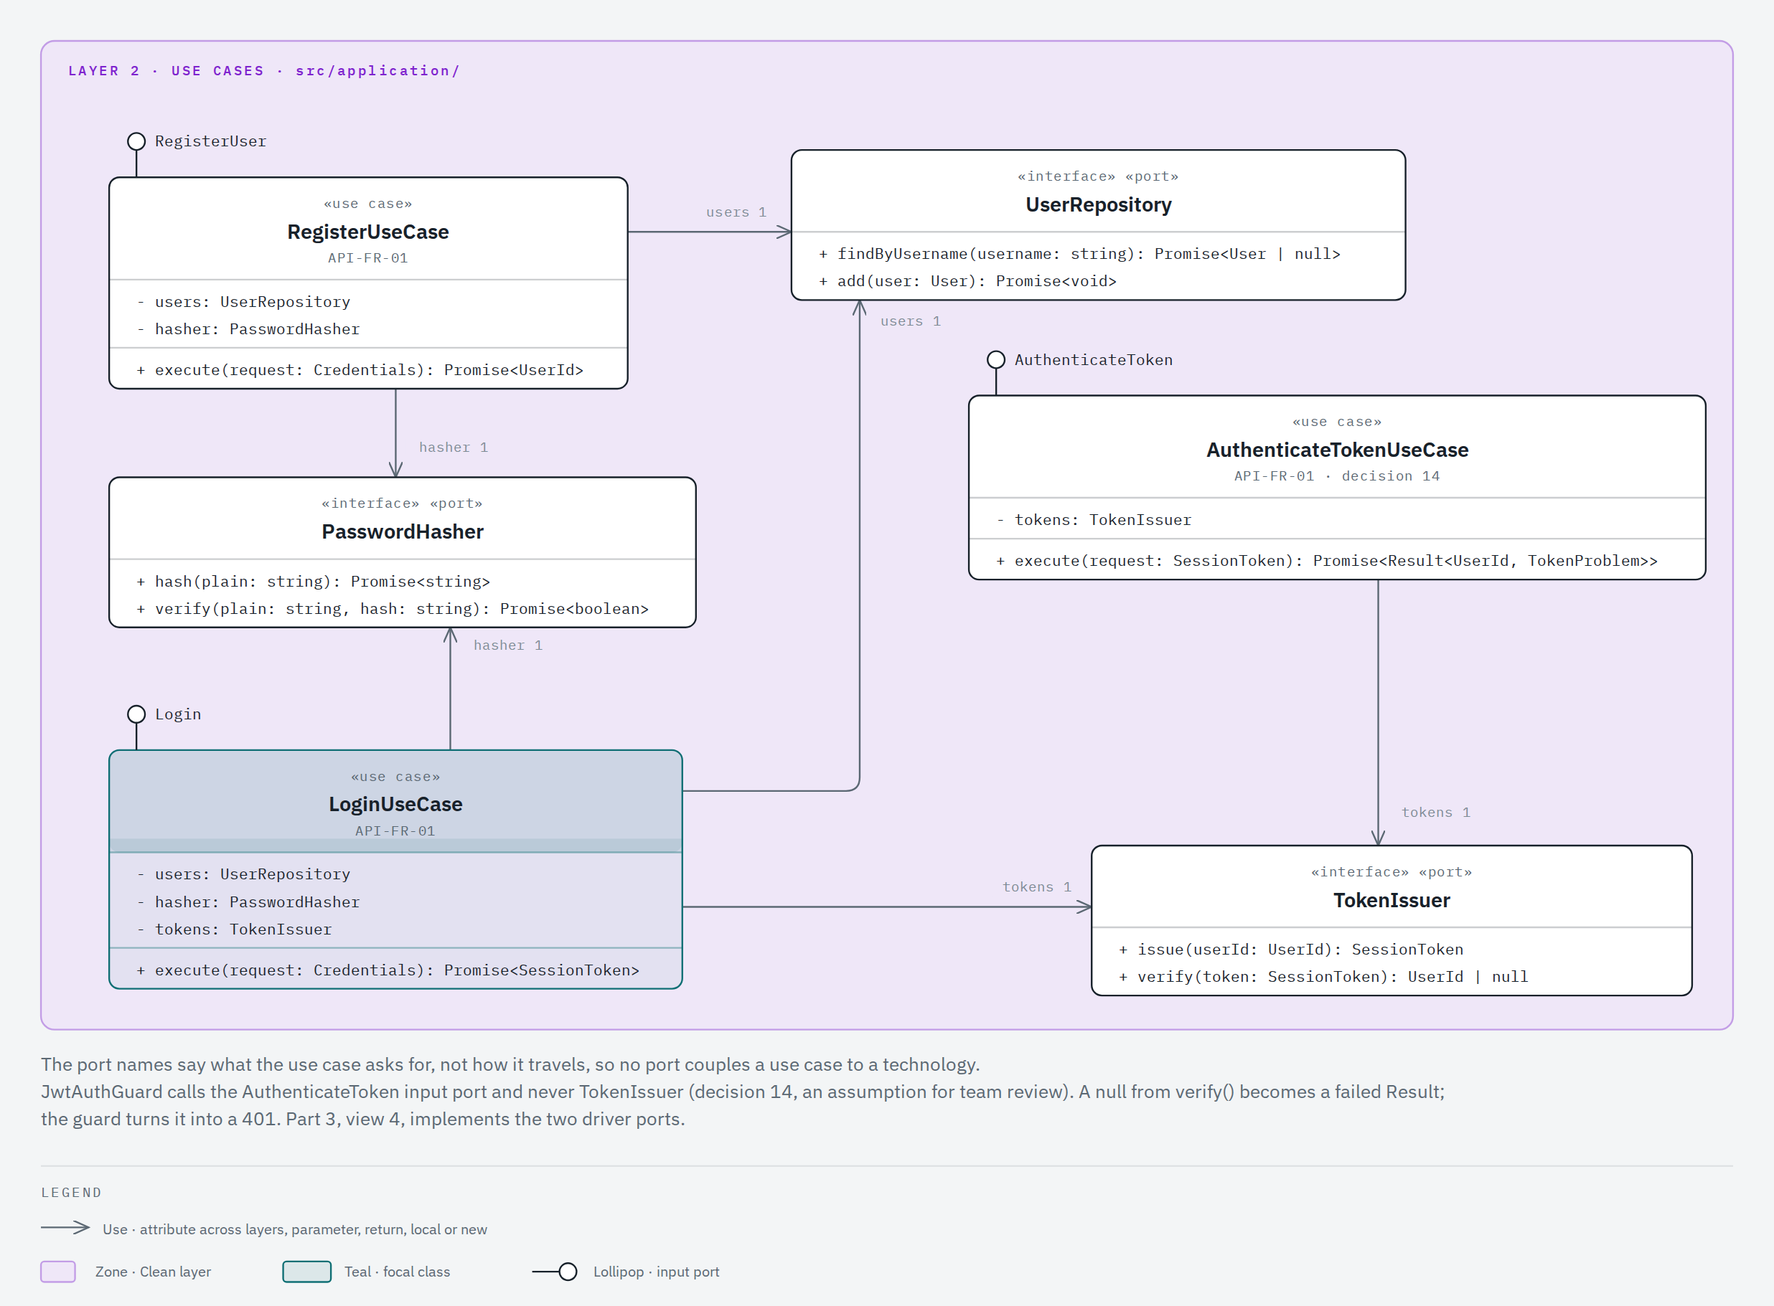
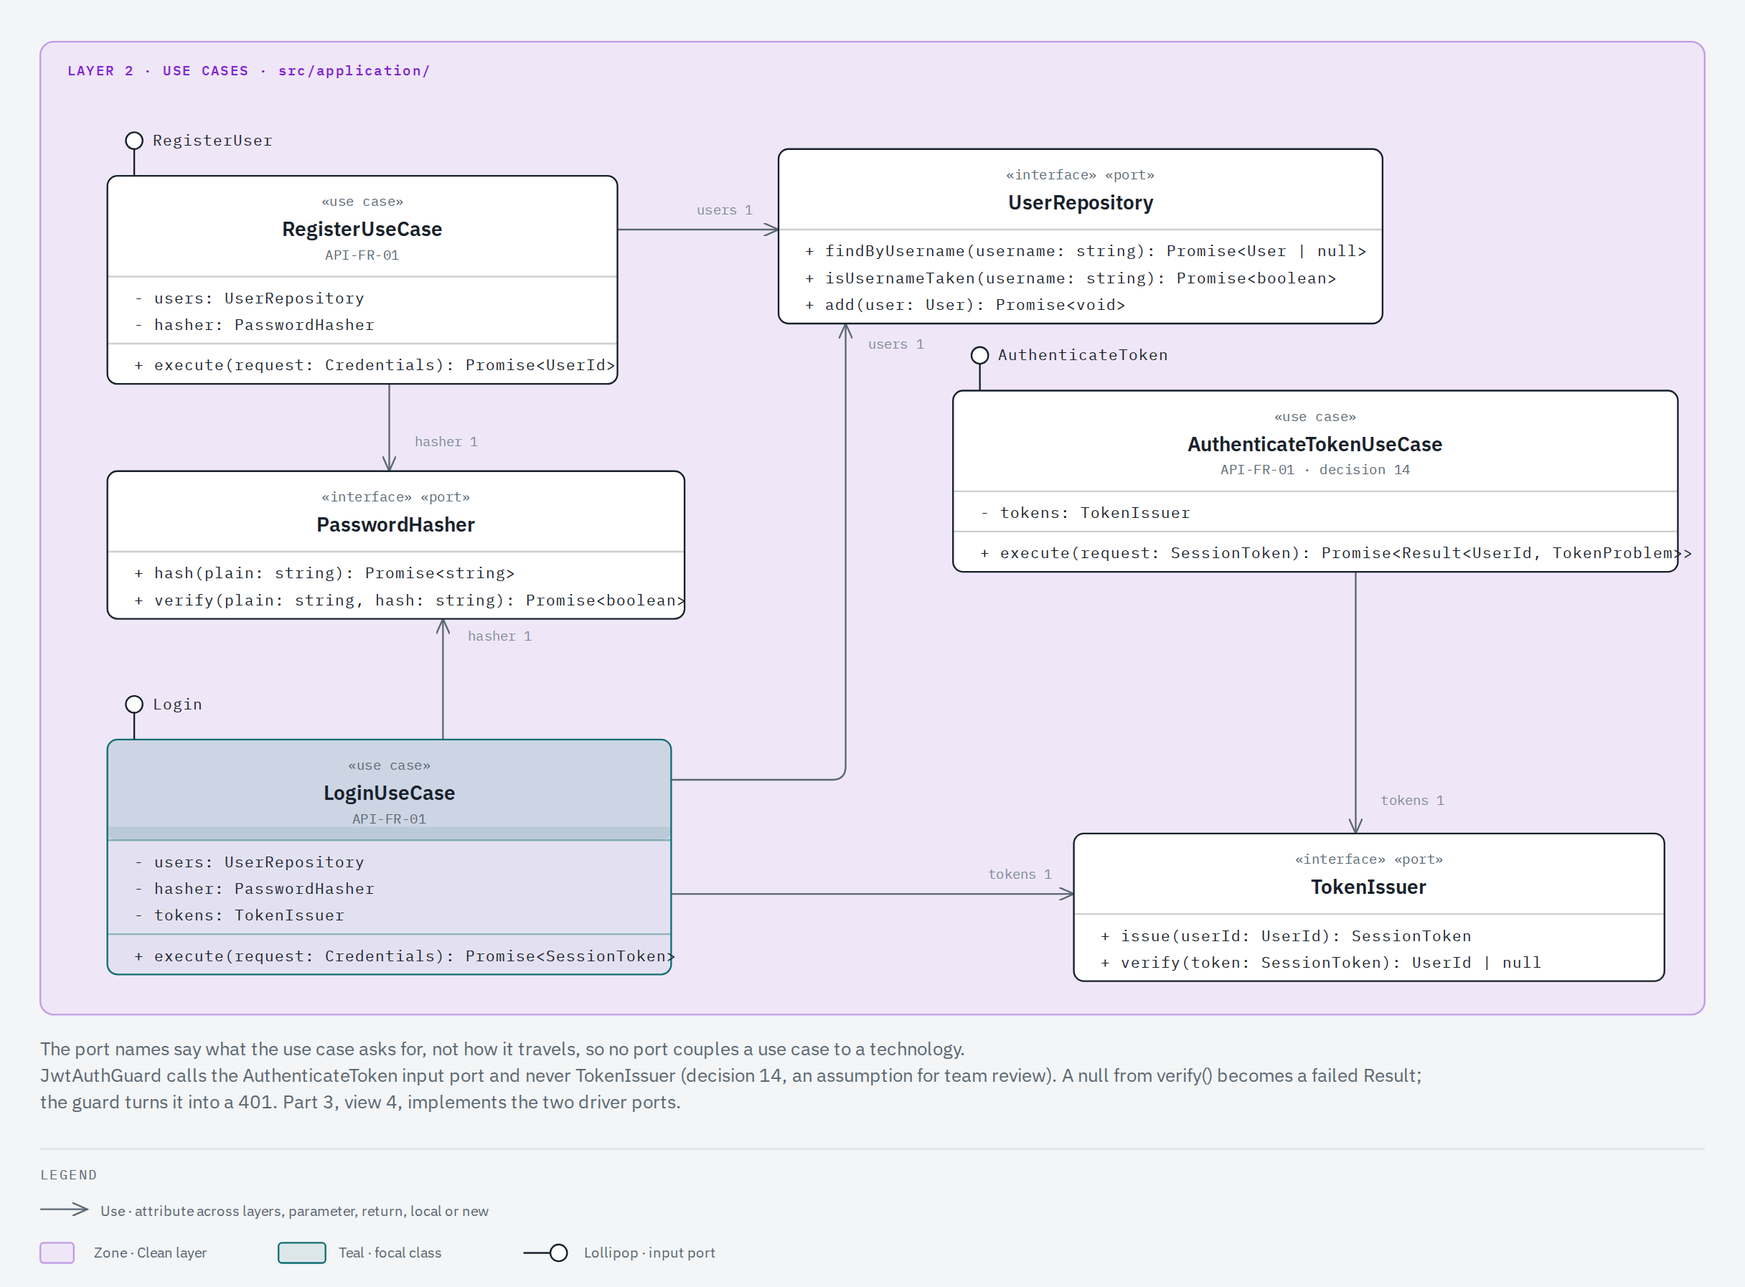
feat(auth): look up taken usernames ignoring letter case
The register use case asks isUsernameTaken() before it hashes, so a
case-only duplicate costs no scrypt work. The index still answers a race.

Closes #62

diff --git a/docs/architecture/classes/views/flow-2-login.html b/docs/architecture/classes/views/flow-2-login.html
@@ -181,7 +181,7 @@
         />
         <!-- LoginUseCase holds UserRepository: use -->
         <path
-          d="M340 712 L340 752"
+          d="M340 712 L340 744"
           fill="none"
           stroke="#5b6873"
           stroke-width="1"
@@ -198,9 +198,9 @@
         <!-- DrizzleUserRepository implements UserRepository: realization -->
         <line
           x1="80"
-          y1="364"
+          y1="380"
           x2="80"
-          y2="752"
+          y2="744"
           stroke="#17212a"
           stroke-width="1"
           stroke-dasharray="5,4"
@@ -449,7 +449,7 @@
           x="48"
           y="240"
           width="340"
-          height="124"
+          height="140"
           rx="6"
           fill="#ffffff"
           stroke="#17212a"
@@ -497,6 +497,9 @@
           + findByUsername(username: string): Promise&lt;User | null&gt;
         </text>
         <text x="64" y="356" fill="#17212a" font-size="9" font-family="'IBM Plex Mono', monospace">
+          + isUsernameTaken(username: string): Promise&lt;boolean&gt;
+        </text>
+        <text x="64" y="372" fill="#17212a" font-size="9" font-family="'IBM Plex Mono', monospace">
           + add(user: User): Promise&lt;void&gt;
         </text>
         <!-- Class: AuthController («controller») -->
@@ -737,9 +740,9 @@
         <!-- Class: UserRepository («interface» «port») -->
         <rect
           x="48"
-          y="752"
+          y="744"
           width="340"
-          height="88"
+          height="104"
           rx="6"
           fill="#ffffff"
           stroke="#17212a"
@@ -747,7 +750,7 @@
         />
         <text
           x="218"
-          y="770"
+          y="762"
           fill="#5b6873"
           font-size="8"
           font-family="'IBM Plex Mono', monospace"
@@ -758,7 +761,7 @@
         </text>
         <text
           x="218"
-          y="788"
+          y="780"
           fill="#17212a"
           font-size="12"
           font-weight="600"
@@ -767,11 +770,14 @@
         >
           UserRepository
         </text>
-        <line x1="48" y1="800" x2="388" y2="800" stroke="rgba(23,33,42,0.22)" stroke-width="1" />
-        <text x="64" y="816" fill="#17212a" font-size="9" font-family="'IBM Plex Mono', monospace">
+        <line x1="48" y1="792" x2="388" y2="792" stroke="rgba(23,33,42,0.22)" stroke-width="1" />
+        <text x="64" y="808" fill="#17212a" font-size="9" font-family="'IBM Plex Mono', monospace">
           + findByUsername(username: string): Promise&lt;User | null&gt;
         </text>
-        <text x="64" y="832" fill="#17212a" font-size="9" font-family="'IBM Plex Mono', monospace">
+        <text x="64" y="824" fill="#17212a" font-size="9" font-family="'IBM Plex Mono', monospace">
+          + isUsernameTaken(username: string): Promise&lt;boolean&gt;
+        </text>
+        <text x="64" y="840" fill="#17212a" font-size="9" font-family="'IBM Plex Mono', monospace">
           + add(user: User): Promise&lt;void&gt;
         </text>
         <!-- Class: User («entity») -->

diff --git a/test/integration/drizzle-user-repository.spec.ts b/test/integration/drizzle-user-repository.spec.ts
@@ -89,16 +89,54 @@ describe('DrizzleUserRepository', () => {
   it('should_fail_with_username_taken_when_registration_loses_the_race', async () => {
     await repository.add(userNamed(ADA_ID, 'ada', 'scrypt$hash'));
     // The lookup misses, as when two sign-ups run at the same time.
-    vi.spyOn(repository, 'findByUsername').mockResolvedValue(null);
+    vi.spyOn(repository, 'isUsernameTaken').mockResolvedValue(false);
     const register = new RegisterUseCase(repository, new PrefixPasswordHasher(), {
       next: () => UserId.from(OTHER_ID),
     });
 
-    const result = await register.execute({ username: 'ada', password: 'other password' });
+    for (const name of ['ada', 'Ada']) {
+      const result = await register.execute({ username: name, password: 'other password' });
 
-    expect(result).toEqual({ ok: false, error: { kind: 'username-taken' } });
+      expect(result).toEqual({ ok: false, error: { kind: 'username-taken' } });
+    }
     const rows = await database.db.select().from(users);
     expect(rows).toEqual([{ id: ADA_ID, username: 'ada', passwordHash: 'scrypt$hash' }]);
+  });
+
+  // The unique index on lower(username) guards the case rule of #62, also
+  // against a writer that skips the repository.
+  it('should_reject_second_row_when_username_differs_only_in_case', async () => {
+    await repository.add(userNamed(ADA_ID, 'ada', 'scrypt$hash'));
+
+    const added = repository.add(userNamed(OTHER_ID, 'Ada', 'scrypt$other'));
+    const inserted = database.db.execute(
+      sql`insert into users (id, username, password_hash) values (${OTHER_ID}, 'ADA', 'x')`,
+    );
+
+    await expect(added).resolves.toEqual({ ok: false, error: 'username-taken' });
+    await expect(inserted).rejects.toMatchObject({
+      cause: { code: '23505', constraint: 'users_username_lower_unique' },
+    });
+    expect(await database.db.select().from(users)).toEqual([
+      { id: ADA_ID, username: 'ada', passwordHash: 'scrypt$hash' },
+    ]);
+  });
+
+  it('should_report_username_taken_when_stored_name_differs_only_in_case', async () => {
+    await repository.add(userNamed(ADA_ID, 'Ada', 'scrypt$hash'));
+
+    for (const name of ['Ada', 'ada', 'ADA']) {
+      expect(await repository.isUsernameTaken(username(name))).toBe(true);
+    }
+    expect(await repository.isUsernameTaken(username('grace'))).toBe(false);
+  });
+
+  it('should_return_null_when_username_differs_only_in_case', async () => {
+    await repository.add(userNamed(ADA_ID, 'ada', 'scrypt$hash'));
+
+    const found = await repository.findByUsername(username('ADA'));
+
+    expect(found).toBeNull();
   });
 
   it('should_rethrow_database_error_when_insert_fails_for_another_reason', async () => {

diff --git a/docs/architecture/classes/views/uc-4-account.html b/docs/architecture/classes/views/uc-4-account.html
@@ -170,7 +170,7 @@
         />
         <!-- LoginUseCase holds UserRepository: use -->
         <path
-          d="M400 464 L496 464 Q504 464 504 456 L504 176"
+          d="M400 464 L496 464 Q504 464 504 456 L504 192"
           fill="none"
           stroke="#5b6873"
           stroke-width="1"
@@ -233,10 +233,10 @@
         >
           users 1
         </text>
-        <rect x="510" y="182" width="48" height="12" rx="2" fill="#efe7f8" />
+        <rect x="510" y="198" width="48" height="12" rx="2" fill="#efe7f8" />
         <text
           x="534"
-          y="191"
+          y="207"
           fill="#7d8a94"
           font-size="8"
           font-family="'IBM Plex Mono', monospace"
@@ -442,7 +442,7 @@
           x="464"
           y="88"
           width="360"
-          height="88"
+          height="104"
           rx="6"
           fill="#ffffff"
           stroke="#17212a"
@@ -475,6 +475,9 @@
           + findByUsername(username: string): Promise&lt;User | null&gt;
         </text>
         <text x="480" y="168" fill="#17212a" font-size="9" font-family="'IBM Plex Mono', monospace">
+          + isUsernameTaken(username: string): Promise&lt;boolean&gt;
+        </text>
+        <text x="480" y="184" fill="#17212a" font-size="9" font-family="'IBM Plex Mono', monospace">
           + add(user: User): Promise&lt;void&gt;
         </text>
         <!-- Class: TokenIssuer («interface» «port») -->

diff --git a/src/adapters/persistence/drizzle-user-repository.ts b/src/adapters/persistence/drizzle-user-repository.ts
@@ -1,4 +1,4 @@
-import { eq } from 'drizzle-orm';
+import { eq, sql } from 'drizzle-orm';
 import type { PgDatabase, PgQueryResultHKT } from 'drizzle-orm/pg-core';
 import type { UserRepository } from '../../application/ports/user-repository.js';
 import { err, ok, type Result } from '../../domain/shared/result.js';
@@ -24,8 +24,20 @@ export class DrizzleUserRepository implements UserRepository {
     return row === undefined ? null : UserRowMapper.toEntity(row);
   }
 
-  // The unique constraint on username rejects a second user with the same
-  // name, also when two sign-ups pass the lookup at the same time.
+  // The expression matches the unique index on lower(username), so the
+  // index answers the lookup.
+  async isUsernameTaken(username: Username): Promise<boolean> {
+    const rows = await this.db
+      .select({ id: users.id })
+      .from(users)
+      .where(sql`lower(${users.username}) = lower(${username.value})`)
+      .limit(1);
+    return rows.length > 0;
+  }
+
+  // The unique index on lower(username) rejects a second user whose name
+  // differs only in letter case, also when two sign-ups pass the lookup at
+  // the same time.
   async add(user: User): Promise<Result<void, 'username-taken'>> {
     try {
       await this.db.insert(users).values(UserRowMapper.toRow(user));

diff --git a/test/unit/application/register.use-case.spec.ts b/test/unit/application/register.use-case.spec.ts
@@ -37,6 +37,26 @@ describe('RegisterUseCase', () => {
     expect(users.users[0].passwordHash.value).toBe('hashed:correct horse');
   });
 
+  // The name is stored as typed, but a name that differs only in letter
+  // case from a stored one is taken (#62).
+  it('should_fail_with_username_taken_when_username_differs_only_in_case', async () => {
+    await register.execute({ username: 'ada', password: 'correct horse' });
+
+    const result = await register.execute({ username: 'Ada', password: 'other password' });
+
+    expect(result).toEqual({ ok: false, error: { kind: 'username-taken' } });
+    expect(users.users).toHaveLength(1);
+    expect(users.users[0].username.value).toBe('ada');
+    expect(users.users[0].passwordHash.value).toBe('hashed:correct horse');
+  });
+
+  it('should_store_username_as_typed_when_it_has_capital_letters', async () => {
+    const result = await register.execute({ username: 'AdaLovelace', password: 'correct horse' });
+
+    expect(result).toEqual({ ok: true, value: UserId.from('user-1') });
+    expect(users.users.map((user) => user.username.value)).toEqual(['AdaLovelace']);
+  });
+
   it('should_fail_with_each_invalid_field_when_credentials_break_the_rules', async () => {
     const result = await register.execute({ username: 'a!', password: 'short' });
 

diff --git a/docs/architecture/classes/views/ad-2-level-store.html b/docs/architecture/classes/views/ad-2-level-store.html
@@ -186,7 +186,7 @@
         <!-- DrizzleUserRepository uses UserRowMapper: use -->
         <line
           x1="672"
-          y1="212"
+          y1="228"
           x2="672"
           y2="272"
           stroke="#5b6873"
@@ -207,7 +207,7 @@
         <!-- DrizzleUserRepository implements UserRepository: realization -->
         <line
           x1="864"
-          y1="212"
+          y1="228"
           x2="864"
           y2="456"
           stroke="#17212a"
@@ -327,7 +327,7 @@
           x="560"
           y="88"
           width="328"
-          height="124"
+          height="140"
           rx="6"
           fill="#ffffff"
           stroke="#17212a"
@@ -375,6 +375,9 @@
           + findByUsername(username: string): Promise&lt;User | null&gt;
         </text>
         <text x="576" y="204" fill="#17212a" font-size="9" font-family="'IBM Plex Mono', monospace">
+          + isUsernameTaken(username: string): Promise&lt;boolean&gt;
+        </text>
+        <text x="576" y="220" fill="#17212a" font-size="9" font-family="'IBM Plex Mono', monospace">
           + add(user: User): Promise&lt;void&gt;
         </text>
         <!-- Class: LevelRowMapper («mapper») -->

diff --git a/src/application/ports/user-repository.ts b/src/application/ports/user-repository.ts
@@ -2,11 +2,14 @@ import type { Result } from '../../domain/shared/result.js';
 import type { User } from '../../domain/user/user.js';
 import type { Username } from '../../domain/user/username.js';
 
-// Port. The store of the User entities. add() fails with username-taken
-// when another user with the same username exists, also after a lookup
-// that missed it.
+// Port. The store of the User entities. Two users never have usernames
+// that differ only in letter case. add() fails with username-taken when
+// such a user exists, also after a lookup that missed it.
 export interface UserRepository {
+  // Finds the user whose username equals the name exactly, letter case included.
   findByUsername(username: Username): Promise<User | null>;
+  // Tells if a user has this username when letter case is ignored.
+  isUsernameTaken(username: Username): Promise<boolean>;
   add(user: User): Promise<Result<void, 'username-taken'>>;
 }
 

diff --git a/test/support/auth/fakes.ts b/test/support/auth/fakes.ts
@@ -17,8 +17,14 @@ export class InMemoryUserRepository implements UserRepository {
     return this.users.find((user) => user.username.value === username.value) ?? null;
   }
 
+  // Ignores letter case, as the unique index on lower(username) does.
+  async isUsernameTaken(username: Username): Promise<boolean> {
+    const name = username.value.toLowerCase();
+    return this.users.some((user) => user.username.value.toLowerCase() === name);
+  }
+
   async add(user: User): Promise<Result<void, 'username-taken'>> {
-    if (this.users.some((stored) => stored.username.value === user.username.value)) {
+    if (await this.isUsernameTaken(user.username)) {
       return err('username-taken');
     }
     this.users.push(user);

diff --git a/test/unit/application/login.use-case.spec.ts b/test/unit/application/login.use-case.spec.ts
@@ -43,6 +43,13 @@ describe('LoginUseCase', () => {
     expect(result).toEqual({ ok: false, error: 'invalid-credentials' });
   });
 
+  // Login finds the user by the name as typed (#62).
+  it('should_fail_with_invalid_credentials_when_username_differs_only_in_case', async () => {
+    const result = await login.execute({ username: 'ADA', password: 'correct horse' });
+
+    expect(result).toEqual({ ok: false, error: 'invalid-credentials' });
+  });
+
   it('should_fail_with_invalid_credentials_when_username_breaks_the_rules', async () => {
     const result = await login.execute({ username: 'a!', password: 'correct horse' });
 

diff --git a/src/application/auth/register.use-case.ts b/src/application/auth/register.use-case.ts
@@ -37,7 +37,8 @@ export class RegisterUseCase implements RegisterUser {
       if (!password.ok) fields.push('password');
       return err({ kind: 'invalid-credentials', fields });
     }
-    if ((await this.users.findByUsername(username.value)) !== null) {
+    // A name that differs from a stored one only in letter case is taken.
+    if (await this.users.isUsernameTaken(username.value)) {
       return err({ kind: 'username-taken' });
     }
     const hash = PasswordHash.from(await this.hasher.hash(password.value.value));

diff --git a/CHANGELOG.md b/CHANGELOG.md
@@ -18,6 +18,7 @@ Each sprint of the plan in [`hexablock-app/docs/ROADMAP.md`](https://github.com/
 
 ### Changed
 
+- Sign-up rejects a username that differs from a stored one only in letter case (`Ada` after `ada`) with the same 409 `Username is already taken` as an exact duplicate ([#62](https://github.com/Hexablock-Suite/hexablock-api/issues/62)). The username is still stored as typed, and sign-in still compares it as typed, so `ADA` does not sign in the stored `ada`. The migration `drizzle/0002_username_lower_unique.sql` adds a unique index on `lower(username)`, so two sign-ups at the same time cannot both pass. On a database that already holds two such names, the migration fails and keeps every row. The `UserRepository` port adds `isUsernameTaken()`, which ignores letter case, and the 409 description in `openapi/openapi.json` names the rule. The e2e test of #49 that expected two accounts now expects the 409.
 - The username and password limits have one source ([#60](https://github.com/Hexablock-Suite/hexablock-api/issues/60)). The new generic value object `Range<T>` in `src/domain/shared/range.ts` keeps its bounds and answers `contains(value: T): boolean`; `Range.ofNumbers(min, max)` rejects `min > max` with a `RangeError`. The professor modeled the limits as a generic range with a contains method in the session of 2026-11-06. `src/domain/user` exports `USERNAME_LENGTH` (3 to 32) and `PASSWORD_LENGTH` (8 to 128), and the value objects, the register error messages and `CredentialsDto` read them. The password length now counts Unicode code points, not UTF-16 units, so four emoji fail the 8-character minimum (NIST SP 800-63B §5.1.1.2). Login rejects a password longer than 128 characters before the hash check, with the same 401 as a wrong password. `POST /auth/login` takes the new `LoginDto`, so `openapi/openapi.json` no longer publishes the registration limits for login; the register schema does not change.
 - A synced level result no longer replaces the stored one. `PlayerProgress.recordLevel()` keeps the best result of each level by the order of DS-4, which the team closed on 2026-11-06: more stars wins, then fewer moves, then less time, and on a full tie the stored result stays. `LevelResult.isBetterThan()` holds the order. `docs/REQUIREMENTS.md` closes DS-4 and drops the interim last-result sentence of DS-12; the class and flow docs say that the same order ranks the per-level leaderboard of Fit and Sort. The HTTP schema does not change ([#24](https://github.com/Hexablock-Suite/hexablock-api/issues/24)).
 - `docs/REQUIREMENTS.md` DS-6 adds `stars` to the Sort section of the level schema: a list of star thresholds, each one a `maxMoves` count. The team chose stars by moves for Sort on 2026-11-06 ([Hexablock-Suite/hexablock-app#59](https://github.com/Hexablock-Suite/hexablock-app/issues/59)). The DS-6 table of `docs/architecture/classes.md` lists the new field, and view 1.2 draws it in `SortSection`. No HTTP change and no code: the API has no level code yet ([#57](https://github.com/Hexablock-Suite/hexablock-api/issues/57)).

diff --git a/AI_USAGE.md b/AI_USAGE.md
@@ -37,6 +37,7 @@ TODO: add one entry per task: date, task, tool, prompt summary, what was kept an
 | 2026-11-06 | #57 Sort stars by moves in the level schema (DS-6)                                  | Claude Code | Claude Code with Claude Opus 5.5 added `stars`, a list of `maxMoves` thresholds, to the Sort section of DS-6 and to the DS-6 table and view 1.2 of the class docs, from the team choice on hexablock-app#59; a human reviews the PR                                                                                                                                                                                                                       | Pending team review   |
 | 2026-11-06 | #24 Keep the best level result by the DS-4 order                                    | Claude Code | Claude Code with Claude Opus 5.5 wrote the RED domain and use case tests, then `LevelResult.isBetterThan()` and the best-result rule of `PlayerProgress.recordLevel()` (more stars, then fewer moves, then less time; a full tie keeps the stored result), rewrote the tests that pinned the last result, and closed DS-4 in the requirements and class docs; a human reviews the PR                                                                      | Pending team review   |
 | 2026-11-06 | #60 One source for the credential limits with a generic `Range<T>`                  | Claude Code | Claude Code with Claude Opus 5.5 wrote the RED tests, then `Range<T>` with `contains()`, the exported `USERNAME_LENGTH` and `PASSWORD_LENGTH` ranges that the value objects, the register messages and `CredentialsDto` read, the code point count of the password, the login check that rejects a password over the maximum before the hasher runs, and `LoginDto` without length rules in OpenAPI; a human reviews the PR                               | Pending team review   |
+| 2026-11-06 | #62 Reject a username that differs only in letter case                              | Claude Code | Claude Code with Claude Opus 5.5 wrote the RED tests (`Ada` after `ada` answers 409, `ADA` cannot sign in as `ada`, the index rejects a case-only duplicate), then `UserRepository.isUsernameTaken()` with its Drizzle and in-memory adapters, the migration `drizzle/0002_username_lower_unique.sql` with a unique index on `lower(username)`, and the docs; a human reviews the PR                                                                      | Pending team review   |
 
 ## Critical Evaluation
 
